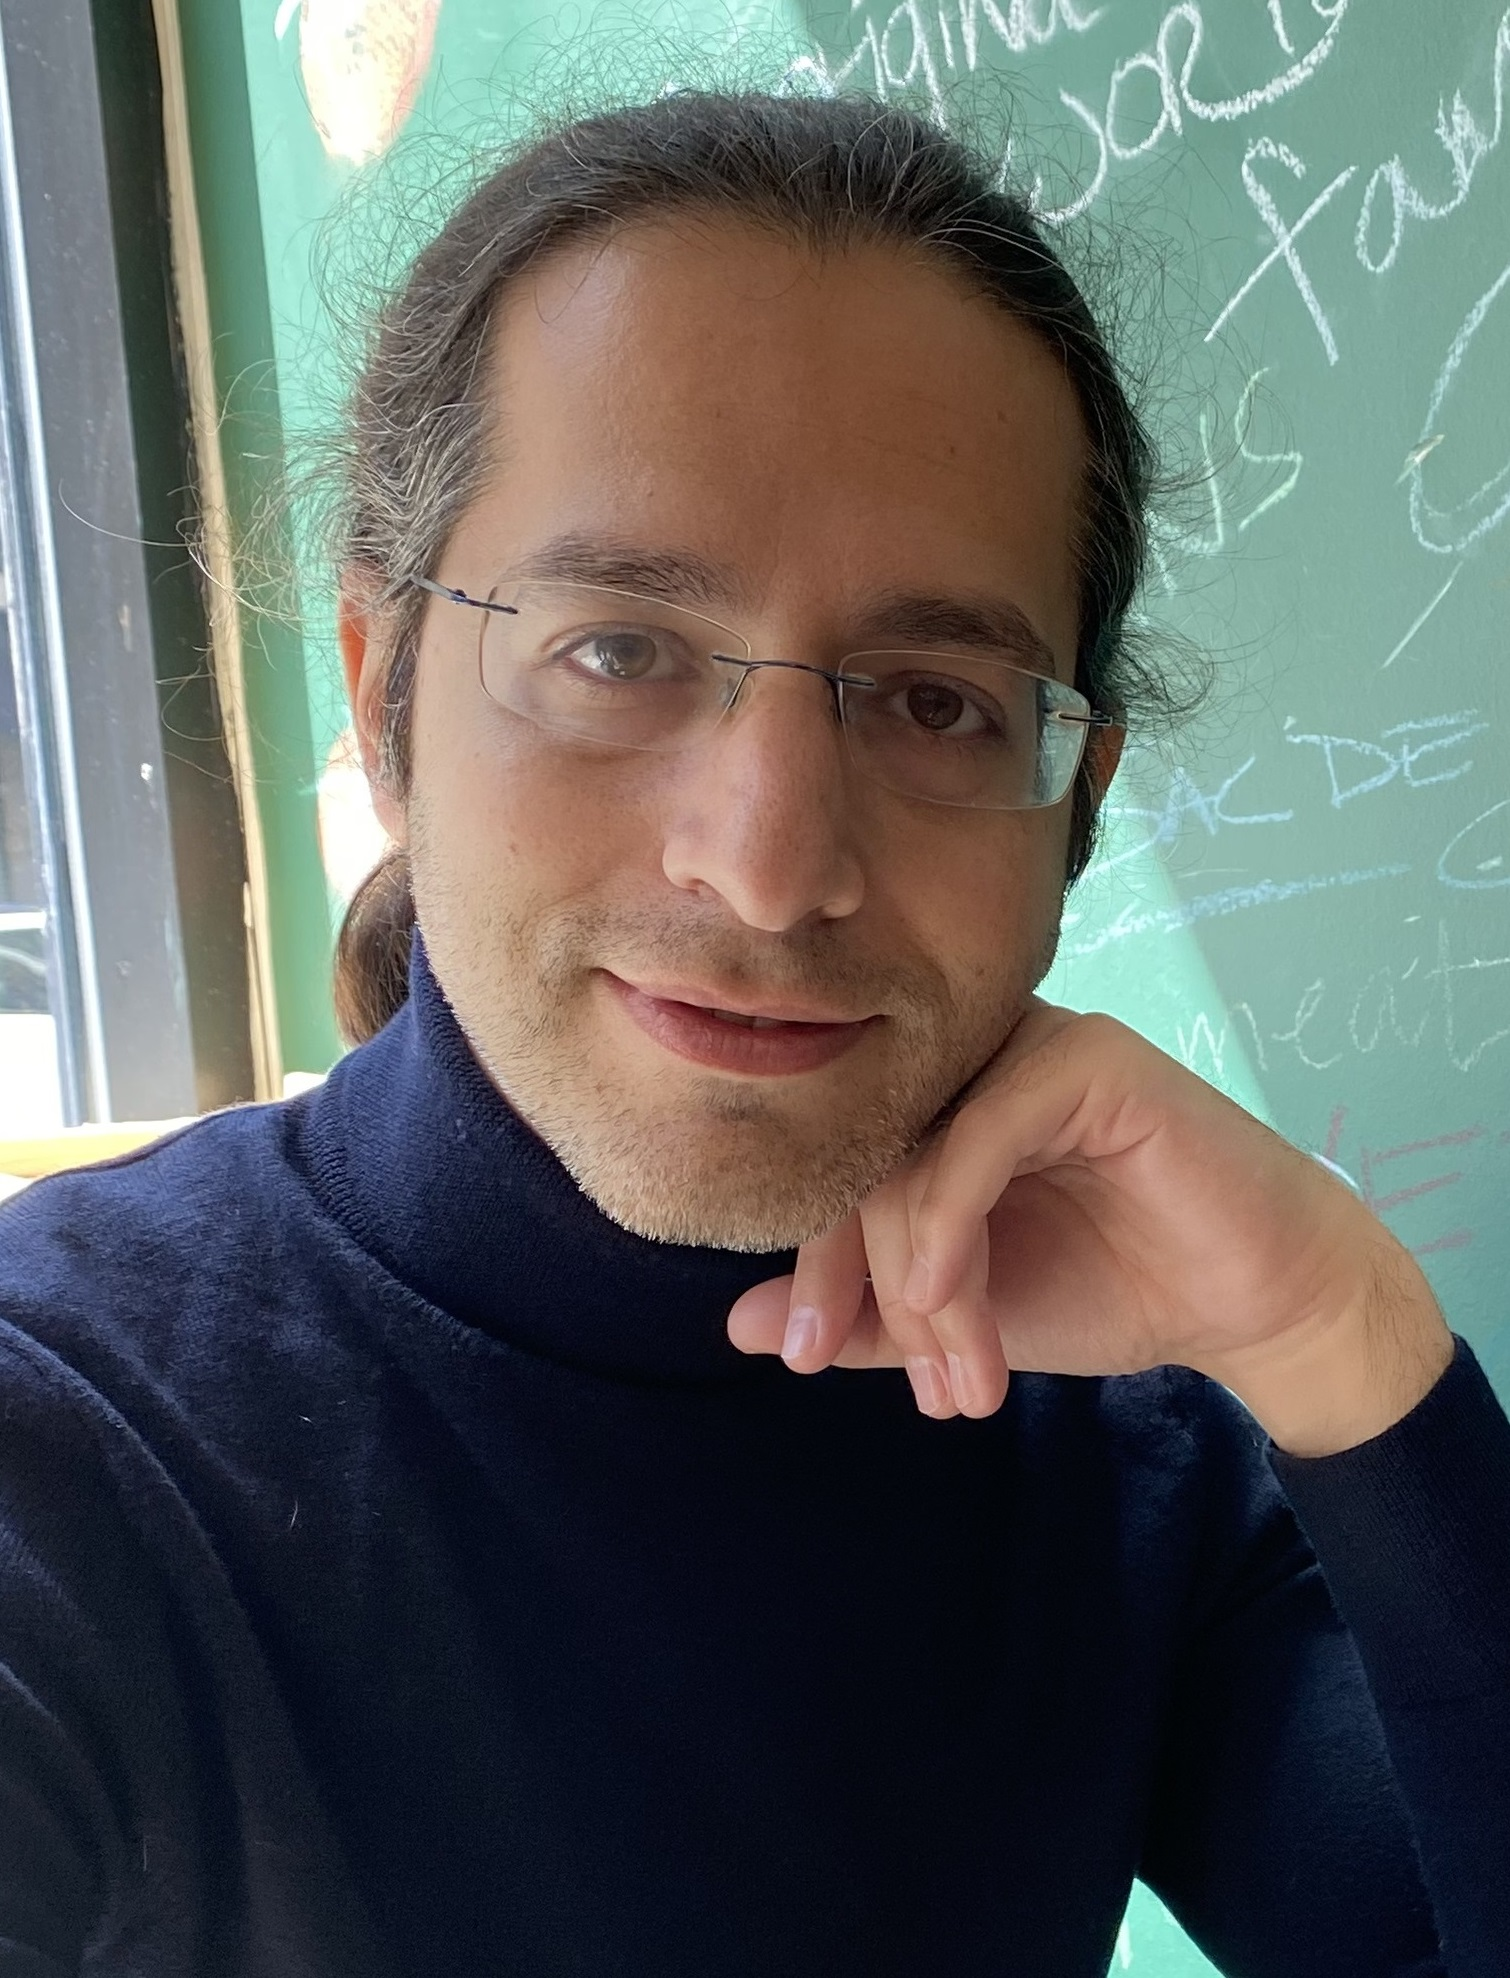
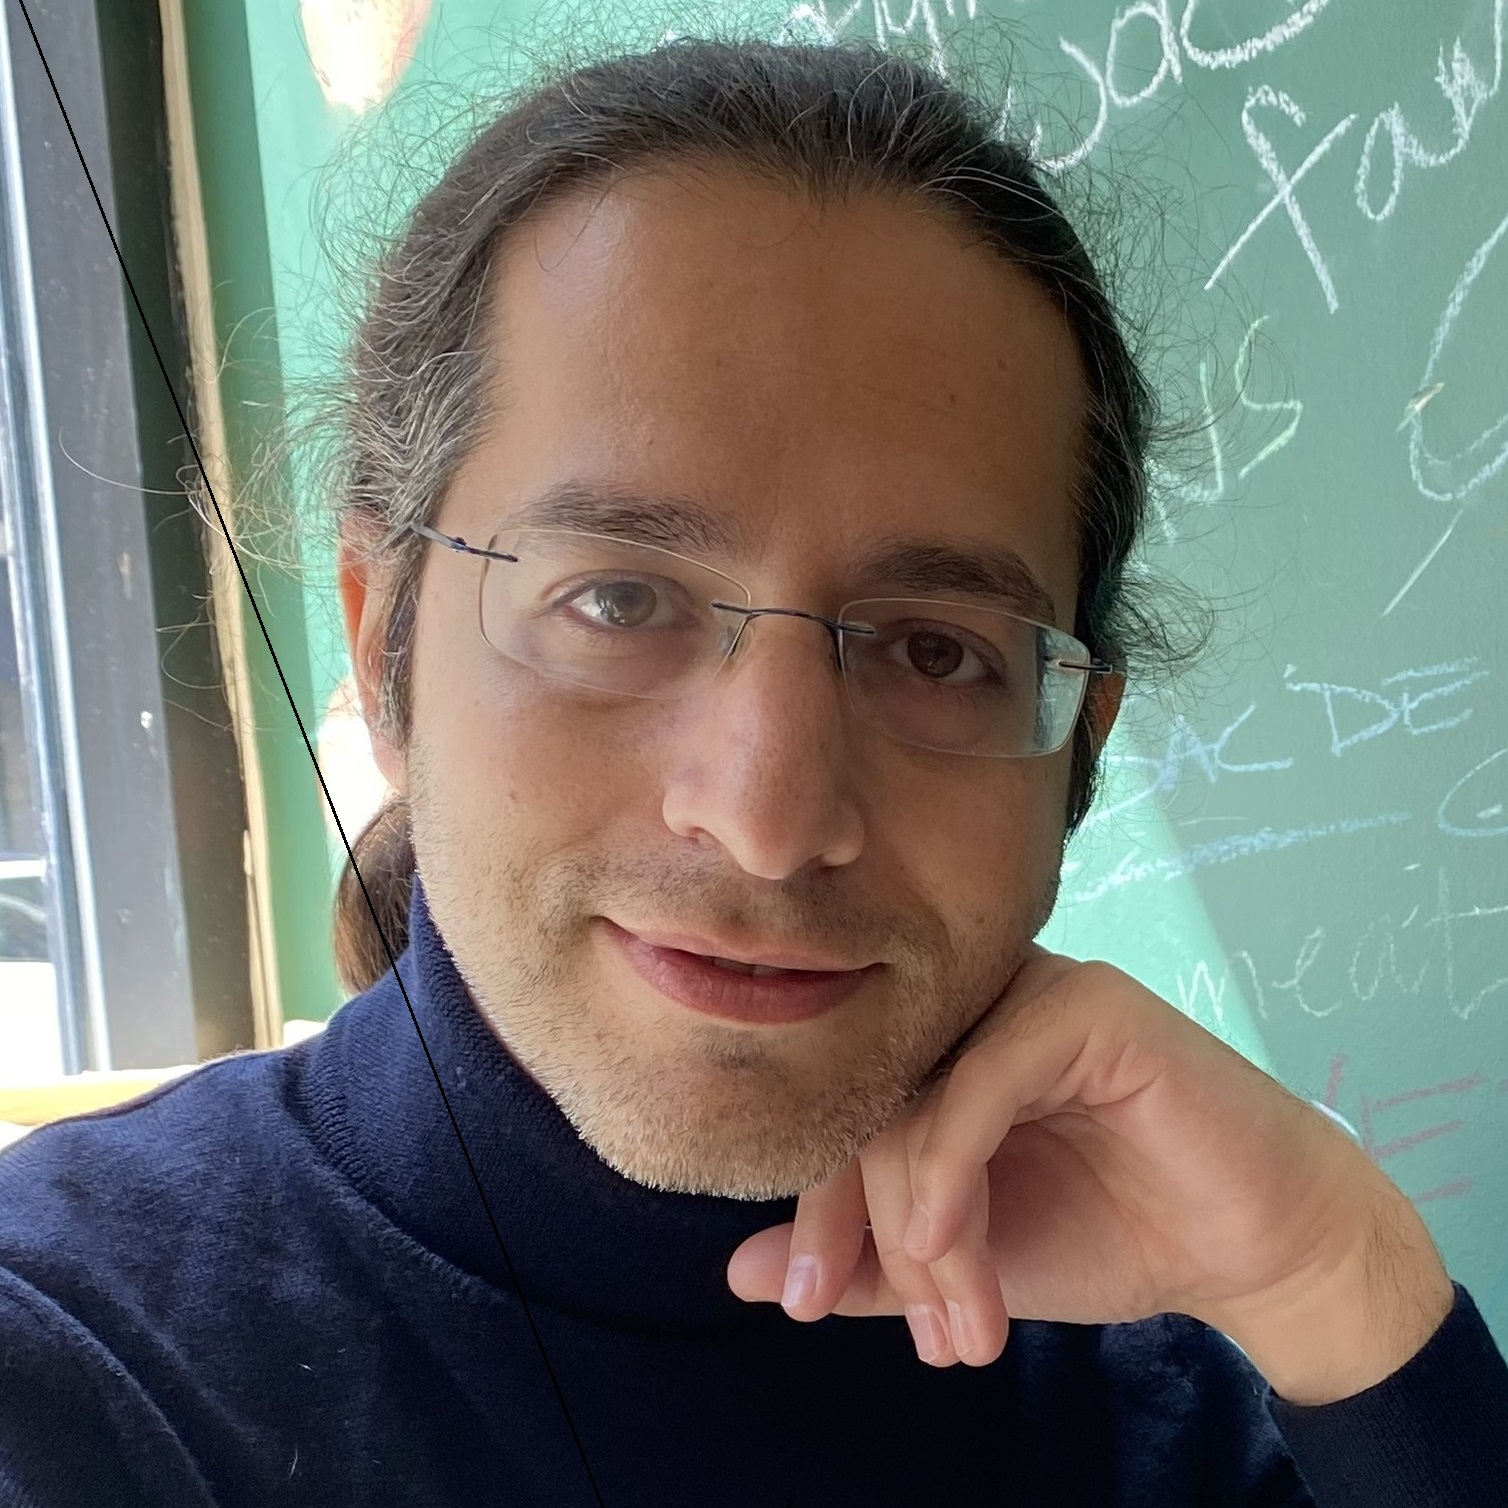
correct roei's entry+pic

diff --git a/faculty.html b/faculty.html
@@ -223,7 +223,7 @@
 	  <div id="trio3">
         <div class="inner">
           <div class="fac_img">
-            <a href="https://www.cs.toronto.edu/%7Enisarg/" target="_blank">
+            <a href="https://sites.google.com/site/roeitell/" target="_blank">
             <img src="people/roei.jpg" height="130" width="130"/></a>
           </div>
           <div class="fac_info">
